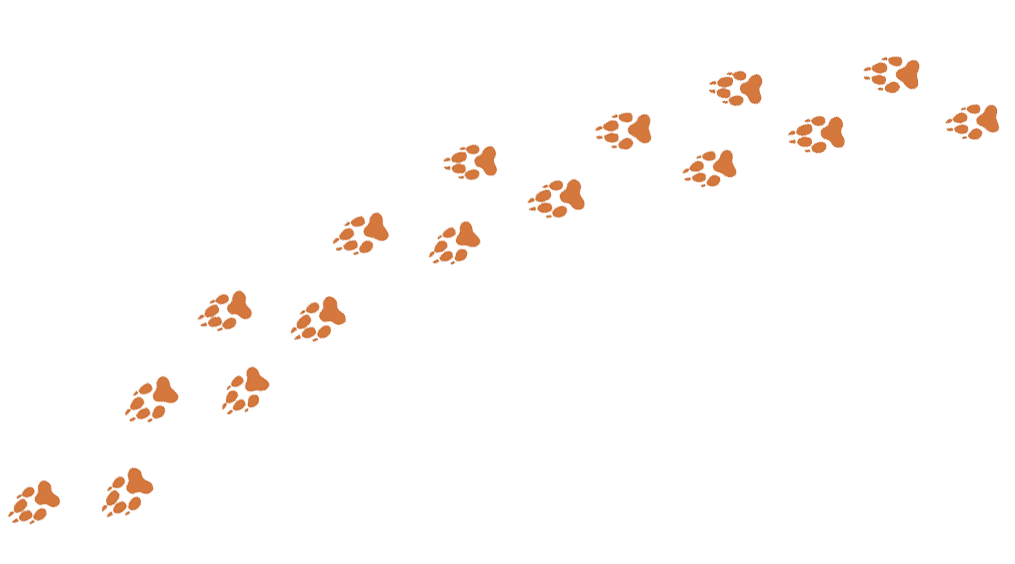
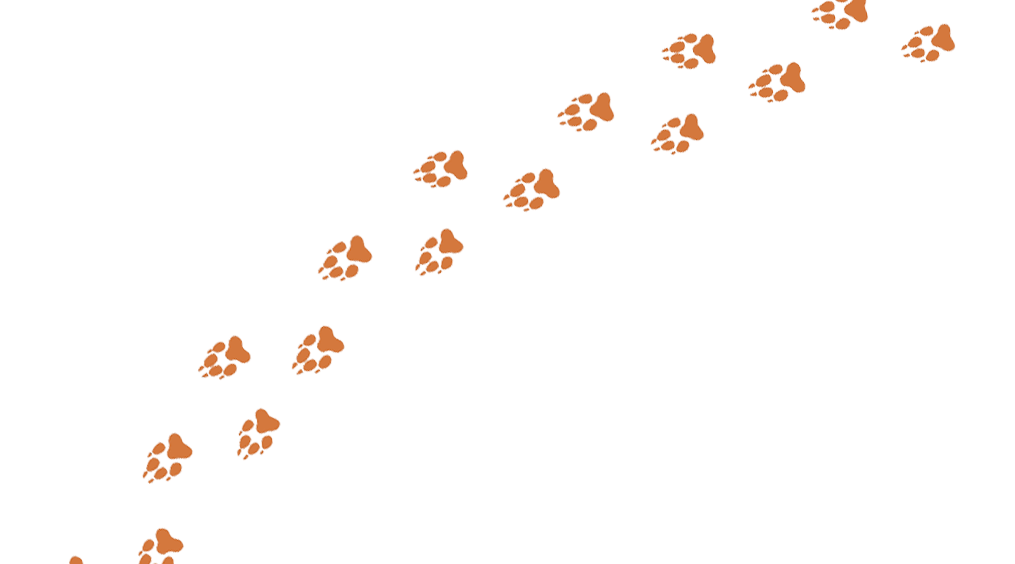
more paws

diff --git a/eksamen/css/omos.css b/eksamen/css/omos.css
@@ -608,51 +608,61 @@ footer #flexkontakt {
     }
 
 
-    /* Dyre poter styling - ipad */
+    /* Dyre poter styling - ipad - start */
 
     #ulve_poter img {
-        display: block;
         position: absolute;
-        text-align: center;
-
         margin-left: auto;
         margin-right: auto;
+        left: 0;
+        right: 0;
+        text-align: center;
         width: 50%;
     }
 
     #fugle_aftryk img {
-        display: block;
-        position: absolute;
-        text-align: end;
-        right: auto;
-
+      position: absolute;
         margin-left: auto;
         margin-right: auto;
+        left: 0;
+        right: 0;
+        text-align: center;
         width: 50%;
     }
 
 
     #klov_aftryk {
-        display: block;
         position: absolute;
-        text-align: end;
-        right: auto;
-
         margin-left: auto;
         margin-right: auto;
+        left: 0;
+        right: 0;
+        text-align: center;
         width: 50%;
     }
-    
-    #hunde_poter{
-        display: block;
-        position: absolute;
-        text-align: end;
-        right: auto;
 
+    #hunde_poter {
+       position: absolute;
         margin-left: auto;
         margin-right: auto;
+        left: 0;
+        right: 0;
+        text-align: center;
         width: 50%;
     }
+
+
+    #hestesko_aftryk {
+       position: relative;
+        margin-left: auto;
+        margin-right: auto;
+        left: 0;
+        right: 0;
+        text-align: center;
+        width: 50%;
+    }
+
+    /* Dyre poter styling - ipad -  slut*/
 
 
     @media only screen and (min-width: 1020px) {

diff --git a/eksamen/omos.html b/eksamen/omos.html
@@ -177,7 +177,7 @@
             
               <p>”Jeg har altid drømt om at være dyrepasser, dyr er min passion, jeg elsker at være sammen med dem, og jeg elsker at give andre gode oplevelser med vores dyr” </p>
 
-            <video controls autoplay loop src="video/milo_polaroid.mp4"></video>
+            <video controls autoplay loop muted src="video/milo_polaroid.mp4"></video>
 
 
           
@@ -193,6 +193,10 @@
 
 
             <p>”Livet er sjovere når man smiler, og vores gæster kan altid forvente at jeg vil møde dem et stort smil, og med stolthed vise vores hyggelige park frem.”</p>
+        </div>
+        
+        <div id="hestesko_aftryk">
+            <img src="images/hestesko_aftryk.png" alt="hestesko aftryk">
         </div>
 
 
